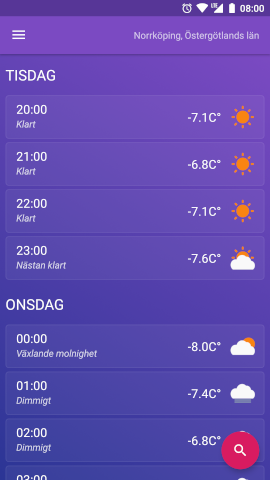
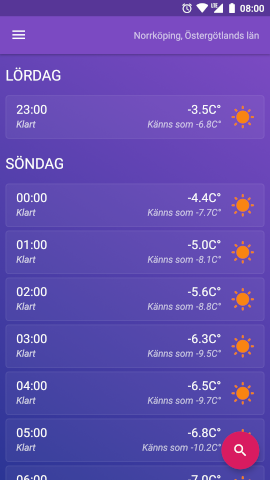
fixes #104 -- adds feels like feature

diff --git a/app/src/main/java/fi/kroon/vadret/presentation/adapter/ForecastAdapter.kt b/app/src/main/java/fi/kroon/vadret/presentation/adapter/ForecastAdapter.kt
@@ -5,10 +5,15 @@ import android.view.View
 import android.view.ViewGroup
 import androidx.recyclerview.widget.RecyclerView
 import fi.kroon.vadret.R
+import fi.kroon.vadret.data.WINDCHILL_FORMULA_MAXIMUM
+import fi.kroon.vadret.data.WINDCHILL_FORMULA_MINIMUM
+import fi.kroon.vadret.data.MPS_TO_KMPH_FACTOR
 import fi.kroon.vadret.data.weather.model.TimeSerie
 import fi.kroon.vadret.di.scope.VadretApplicationScope
-import kotlinx.android.synthetic.main.weather_item_header.view.*
+import fi.kroon.vadret.utils.extensions.toVisible
+import fi.kroon.vadret.utils.extensions.toWindChill
 import kotlinx.android.synthetic.main.weather_item.view.*
+import kotlinx.android.synthetic.main.weather_item_header.view.*
 import org.threeten.bp.LocalDate
 import org.threeten.bp.OffsetDateTime
 import org.threeten.bp.format.TextStyle
@@ -44,15 +49,28 @@ class ForecastAdapter @Inject constructor() : RecyclerView.Adapter<RecyclerView.
             Timber.d("TimeSerie: ${timeSerie.parameters}")
             itemView.time.text = OffsetDateTime.parse(timeSerie.validTime).toLocalTime().toString()
 
-            timeSerie.parameters.map {
-
-                if (it.name == "t") {
-                    Timber.d("t: ${it.values[0]}")
-                    itemView.temperature.text = it.values[0].toString()
-                } else if (it.name == "Wsymb2") {
-                    Timber.d("wsymb2: ${it.values[0]}")
-                    itemView.wsymb2.setText(handleWsymb2Description(it.values[0].toInt()))
-                    itemView.wsymb2Icon.setImageResource(handleWsymb2Icon(it.values[0].toInt()))
+            timeSerie.parameters.map { parameter ->
+                if (parameter.name == "t") {
+                    Timber.d("t: ${parameter.values[0]}")
+                    itemView.temperature.text = parameter.values[0].toString()
+                    if (parameter.values[0] < WINDCHILL_FORMULA_MAXIMUM) {
+                        timeSerie.parameters.map {
+                            when (it.name) {
+                                "ws" -> {
+                                    if (it.values[0] * MPS_TO_KMPH_FACTOR > WINDCHILL_FORMULA_MINIMUM) {
+                                        itemView.feelsLikeTemperature.text = parameter.values[0].toWindChill(it.values[0])
+                                        itemView.feelsLikeTemperature.toVisible()
+                                        itemView.feelsLike.toVisible()
+                                        itemView.feelsLikeTempUnit.toVisible()
+                                    }
+                                }
+                            }
+                        }
+                    }
+                } else if (parameter.name == "Wsymb2") {
+                    Timber.d("wsymb2: ${parameter.values[0]}")
+                    itemView.wsymb2.setText(handleWsymb2Description(parameter.values[0].toInt()))
+                    itemView.wsymb2Icon.setImageResource(handleWsymb2Icon(parameter.values[0].toInt()))
                 }
             }
         }

diff --git a/app/src/main/java/fi/kroon/vadret/utils/extensions/Double.kt b/app/src/main/java/fi/kroon/vadret/utils/extensions/Double.kt
@@ -1,4 +1,18 @@
 package fi.kroon.vadret.utils.extensions
 
+import fi.kroon.vadret.data.MPS_TO_KMPH_FACTOR
+
 fun Double.toCoordinate() = "%.6f".format(this).replace(",", ".").toDouble()
 fun String.toCoordinate() = "%.6f".format(this.toDouble()).replace(",", ".").toDouble()
+fun Double.toWindChill(wind: Double): String {
+
+    /**
+     *  If temperature is <= 10 we do this calculation
+     *  Reference implementation: https://web.archive.org/web/20060427103553/http://www.msc.ec.gc.ca/education/windchill/science_equations_e.cfm
+     */
+    val temperature = this
+    val kmPh = wind * MPS_TO_KMPH_FACTOR
+    val windChill: Double = 13.12 + 0.6215 * temperature - 11.37 * Math.pow(kmPh, 0.16) + (0.3965 * temperature) * Math.pow(kmPh, 0.16)
+
+    return "%.1f".format(windChill.toFloat()).replace(",", ".")
+}

diff --git a/app/src/test/java/fi/kroon/vadret/common/WindChillTest.kt b/app/src/test/java/fi/kroon/vadret/common/WindChillTest.kt
@@ -1,0 +1,26 @@
+package fi.kroon.vadret.common
+
+import fi.kroon.vadret.utils.extensions.toWindChill
+import org.assertj.core.api.Assertions.assertThat
+import org.junit.Test
+
+class WindChillTest {
+
+    @Test
+    fun `assert toWindChill produces expected results`() {
+        val temperature = -20.0
+        val windSpeed = 1.388889 // 5km/h in m/s
+
+        val windChill = temperature.toWindChill(windSpeed).toDouble()
+        assertThat(windChill).isEqualTo(-24.3)
+    }
+
+    @Test
+    fun ` toWindChill produces expected -33 degree result`() {
+        val temperature = -20.0
+        val windSpeed = 8.333333 // 30km/h in m/s
+
+        val windChill = temperature.toWindChill(windSpeed).toDouble()
+        assertThat(windChill).isEqualTo(-32.6)
+    }
+}

diff --git a/app/src/main/java/fi/kroon/vadret/data/Constants.kt b/app/src/main/java/fi/kroon/vadret/data/Constants.kt
@@ -38,3 +38,6 @@ const val SECOND_MILLIS = 1000
 const val MINUTE_MILLIS = 60 * SECOND_MILLIS
 const val HOUR_MILLIS = 60 * MINUTE_MILLIS
 const val DAY_MILLIS = 24 * HOUR_MILLIS
+const val MPS_TO_KMPH_FACTOR = 3.6
+const val WINDCHILL_FORMULA_MINIMUM = 4.8
+const val WINDCHILL_FORMULA_MAXIMUM = 10.0

diff --git a/app/src/main/res/raw/changelog.md b/app/src/main/res/raw/changelog.md
@@ -5,6 +5,11 @@ and this project adheres to [Semantic Versioning](https://semver.org/spec/v2.0.0
 
 ## [Unreleased]
 
+## [0.1.7] -- 2019-01-19
+
+### Added
+- Show 'feels like' temperature
+
 ## [0.1.6] -- 2018-12-27
 
 ### Fixed
@@ -65,7 +70,8 @@ and this project adheres to [Semantic Versioning](https://semver.org/spec/v2.0.0
 - Radar imagery
 - 10 day weather forecast
 
-[Unreleased]: https://github.com/vadret/android/compare/0.1.6...HEAD
+[Unreleased]: https://github.com/vadret/android/compare/0.1.7...HEAD
+[0.1.7]: https://github.com/vadret/android/compare/0.1.6...0.1.7
 [0.1.6]: https://github.com/vadret/android/compare/0.1.5...0.1.6
 [0.1.5]: https://github.com/vadret/android/compare/0.1.4...0.1.5
 [0.1.4]: https://github.com/vadret/android/compare/0.1.3...0.1.4
